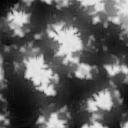
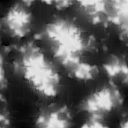
Remove unused files, fix logical errors in algorithm

diff --git a/erosion_simulator.cpp b/erosion_simulator.cpp
@@ -12,8 +12,8 @@
 #define RNG_MARGINS 1		// the number of pixels the droplet placement should be distanced from the edges of the image, at minimum
 
 #define ITERATIONS 100000
-#define EVAPORATION 0.0025f
-#define INTENSITY 5
+#define EVAPORATION 0.005f
+#define INTENSITY 6
 #define S_DR 0.01f
 #define S_DF 0.0005f
 #define S_TF 0.0001f
@@ -23,11 +23,6 @@
 #define GRAVITATIONAL_CONST 9.8f
 
 #define SOFT_BRUSH true
-
-char int_to_ascii(unsigned char &value) {
-	const char lightness_map[66] = "`^\",:;Il!i~+_-?][}{1)(|\\/tfjrxnuvczXYUJCLQ0OZmwqpdbkhao*#MW&8%B@$";
-	return lightness_map[value / 4];
-}
 
 // Gets the tanget at the given point, with padding at the edges by copying the point's height
 std::pair<float, float> get_tangent(float** heights, unsigned int width, unsigned int height, std::pair<unsigned int, unsigned int> point)
@@ -39,7 +34,6 @@ std::pair<float, float> get_tangent(float** heights, unsigned int width, unsigne
 
 	return std::make_pair((bottom - top) / 2.0f, (right - left) / 2.0f);
 }
-
 
 void apply_modification(float** heights, unsigned int width, unsigned int height, std::pair<unsigned int, unsigned int> point, float value)
 {
@@ -79,7 +73,7 @@ void apply_modification(float** heights, unsigned int width, unsigned int height
 	}
 	if (y + 1 < width)
 	{
-		heights[x][y + 1] += value * corner_wieght;
+		heights[x][y + 1] += value * ortho_weight;
 	}
 #endif
 	heights[x][y] += value;
@@ -113,7 +107,7 @@ void erosion_step(float** heights, unsigned int width, unsigned int height, std:
 		direction = get_tangent(heights, width, height, point);
 
 		// if tangent is close to 0, choose random direction
-		if (std::abs(direction.first) <= 0.1f || std::abs(direction.second) <= 0.1f)
+		if (std::abs(direction.first) <= 0.1f && std::abs(direction.second) <= 0.1f)
 		{
 			direction.first = random_float(gen);
 			direction.second = random_float(gen);
@@ -121,7 +115,6 @@ void erosion_step(float** heights, unsigned int width, unsigned int height, std:
 
 		float slope;
 		// based on direction, choose next point and compute slope
-		// TODO: HANDLE 'pits'
 		if (std::abs(direction.first) > std::abs(direction.second))
 		{
 			if (direction.first > 0.0f) // the slope is pointing to the north
@@ -160,21 +153,32 @@ void erosion_step(float** heights, unsigned int width, unsigned int height, std:
 		float detached_soil = d_r + d_f;
 		float transport_capacity = t_r + t_f;
 		
-		carried_soil += detached_soil;
 		auto height_diff = heights[point.first][point.second] - heights[next_point.first][next_point.second];
-
-		apply_modification(heights, width, height, point, -detached_soil);
+		
 		// it does not make sense for the next point to be at a higher position than our current point
-		if (height_diff < 0)
+		if (height_diff < 0.0f)
 		{
-			auto deposited = std::min(-height_diff, carried_soil);
+			float deposited;
+			if (carried_soil < -height_diff / 2.8f)
+			{
+				deposited = carried_soil;
+			}
+			else
+			{
+				deposited = -height_diff;
+			}
 			carried_soil -= deposited;
-			apply_modification(heights, width, height, point, deposited);
+			apply_modification(heights, width, height, point, deposited * 0.75f);
+			heights[point.first][point.second] += deposited * 2.8f * 0.25f;
+
 			velocity = 0.0f;
-			// we do not update the point location, it could be permanently stuck
+			// we do NOT update the point location, it could be permanently stuck
 		}
 		else
 		{
+			apply_modification(heights, width, height, point, -detached_soil);
+			carried_soil += detached_soil;
+
 			float sedimented_soil = std::max(carried_soil - transport_capacity, 0.0f);
 
 			if (sedimented_soil > 0.0f)
@@ -182,7 +186,6 @@ void erosion_step(float** heights, unsigned int width, unsigned int height, std:
 				apply_modification(heights, width, height, point, sedimented_soil);
 				carried_soil -= sedimented_soil;
 			}
-			velocity += get_acceleration(height_diff);
 			velocity = (velocity < 0.0f) ? 0.0f : velocity; // velocity cannot be negative
 			point = next_point;
 		}
@@ -211,7 +214,7 @@ void erode_image(unsigned char** pixels, unsigned int width, unsigned int height
 	std::uniform_int_distribution<unsigned> distrib_width(RNG_MARGINS, width - RNG_MARGINS);
 	std::uniform_int_distribution<unsigned> distrib_height(RNG_MARGINS, height - RNG_MARGINS);
 
-	for (int i = 0; i < ITERATIONS; i++)
+	for (long long i = 0; i < ITERATIONS; i++)
 	{
 		erosion_step(heights, width, height, std::make_pair(distrib_width(gen), distrib_height(gen)));
 	}
@@ -259,8 +262,8 @@ int main(int argc, char **argv)
 	}
 
 	// Copy pixel values to the array
-	for (int i = 0; i < height; ++i) {
-		for (int j = 0; j < width; ++j) {
+	for (long long i = 0; i < height; ++i) {
+		for (long long j = 0; j < width; ++j) {
 			// 4 bytes per pixel (RGBA), we poll the R byte - and assume a greyscale image
 			pixels[i][j] = image[(i * height + j) * 4];
 			//std::cout << int_to_ascii(pixels[i][j]) << ' ';
@@ -277,8 +280,8 @@ int main(int argc, char **argv)
 	erode_image(pixels, width, height);
 
 	// write pixel values to PNG vector (RGBA) bytes
-	for (int i = 0; i < height; ++i) {
-		for (int j = 0; j < width; ++j) {
+	for (long long i = 0; i < height; ++i) {
+		for (long long j = 0; j < width; ++j) {
 			// 4 bytes per pixel (RGBA), we poll the R byte - and assume a greyscale image
 			image[(i * height + j) * 4] = pixels[i][j];
 			image[(i * height + j) * 4 + 1] = pixels[i][j];
